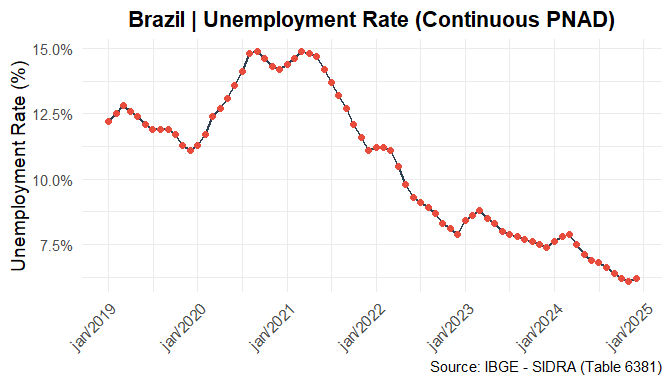
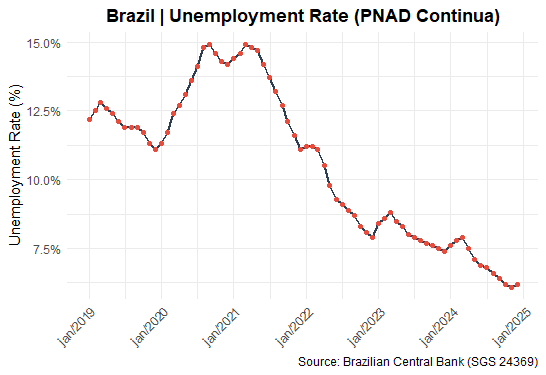
Retirando o sidrar como dependente da função de desemprego (#22)
* Colocando como base a função interna de download como base principal da captação dos dados de desemprego

* Remoção de pacotes dependentes

* Correção da função e readme

* Update description and version 0.7.2 -> 0.8.0

* Novo objetivo do pacote no readme

diff --git a/README.md b/README.md
@@ -13,9 +13,7 @@ stars](https://img.shields.io/github/stars/efram2/brfinance.svg)](https://github
 [![GitHub
 forks](https://img.shields.io/github/forks/efram2/brfinance.svg)](https://github.com/efram2/brfinance/network)
 
-**brfinance** is an R package that brings together **official Brazilian
-macroeconomic data** and **practical financial calculators** in a
-simple, ready-to-use interface.
+**brfinance** is an R package that provides simplified access to Brazilian macroeconomic time series from the Central Bank of Brazil, along with practical financial calculators.
 
 If you work with **Brazilian data**, **interest rates**, **inflation**,
 or **financial math**, this package is for you.
@@ -26,12 +24,12 @@ or **financial math**, this package is for you.
 
 With **brfinance**, you can:
 
-- Access **official Brazilian macroeconomic indicators** (BCB & IBGE)
-- Run **financial calculations** (NPV, IRR, PV, FV, PMT, rates)
-- Plot key indicators with **one line of code**
-- Use **Portuguese or English** outputs seamlessly
+- Access official Brazilian macroeconomic time series from the Central Bank of Brazil (SGS)
+- Retrieve clean and standardized time series (`date` + `value`)
+- Plot key indicators with one line of code
+- Run financial calculations (NPV, IRR, PV, FV, PMT, rates)
 
-No APIs. No scraping. No manual cleaning.
+No manual API handling. No data wrangling required.
 
 ------------------------------------------------------------------------
 
@@ -130,8 +128,6 @@ calc_pmt(rate = 0.02, n = 24, pv = 10000)
 - `get_exchange_rate()` → Retrieves official exchange rates
 - `get_gdp_growth()` → Retrieves GDP growth rates
 - `get_unemployment()` → Retrieves unemployment rate from PNAD Contínua
-- `brfinance:::.get_sgs_series()` → Retrieves any Central Bank (SGS)
-  time series by code
 
 All `get_*` functions support flexible date inputs: `"YYYY"`,
 `"YYYY-MM"`, or `"YYYY-MM-DD"`.
@@ -174,10 +170,9 @@ All main functions support bilingual output:
 
 # Data sources
 
-All data come from *official Brazilian institutions:*
+All data are retrieved from official Brazilian institutions:
 
-- Central Bank of Brazil (BCB / SGS)
-- IBGE (SIDRA / PNAD Contínua)
+- Central Bank of Brazil (BCB) via the SGS API
 
 # Contribution
 
